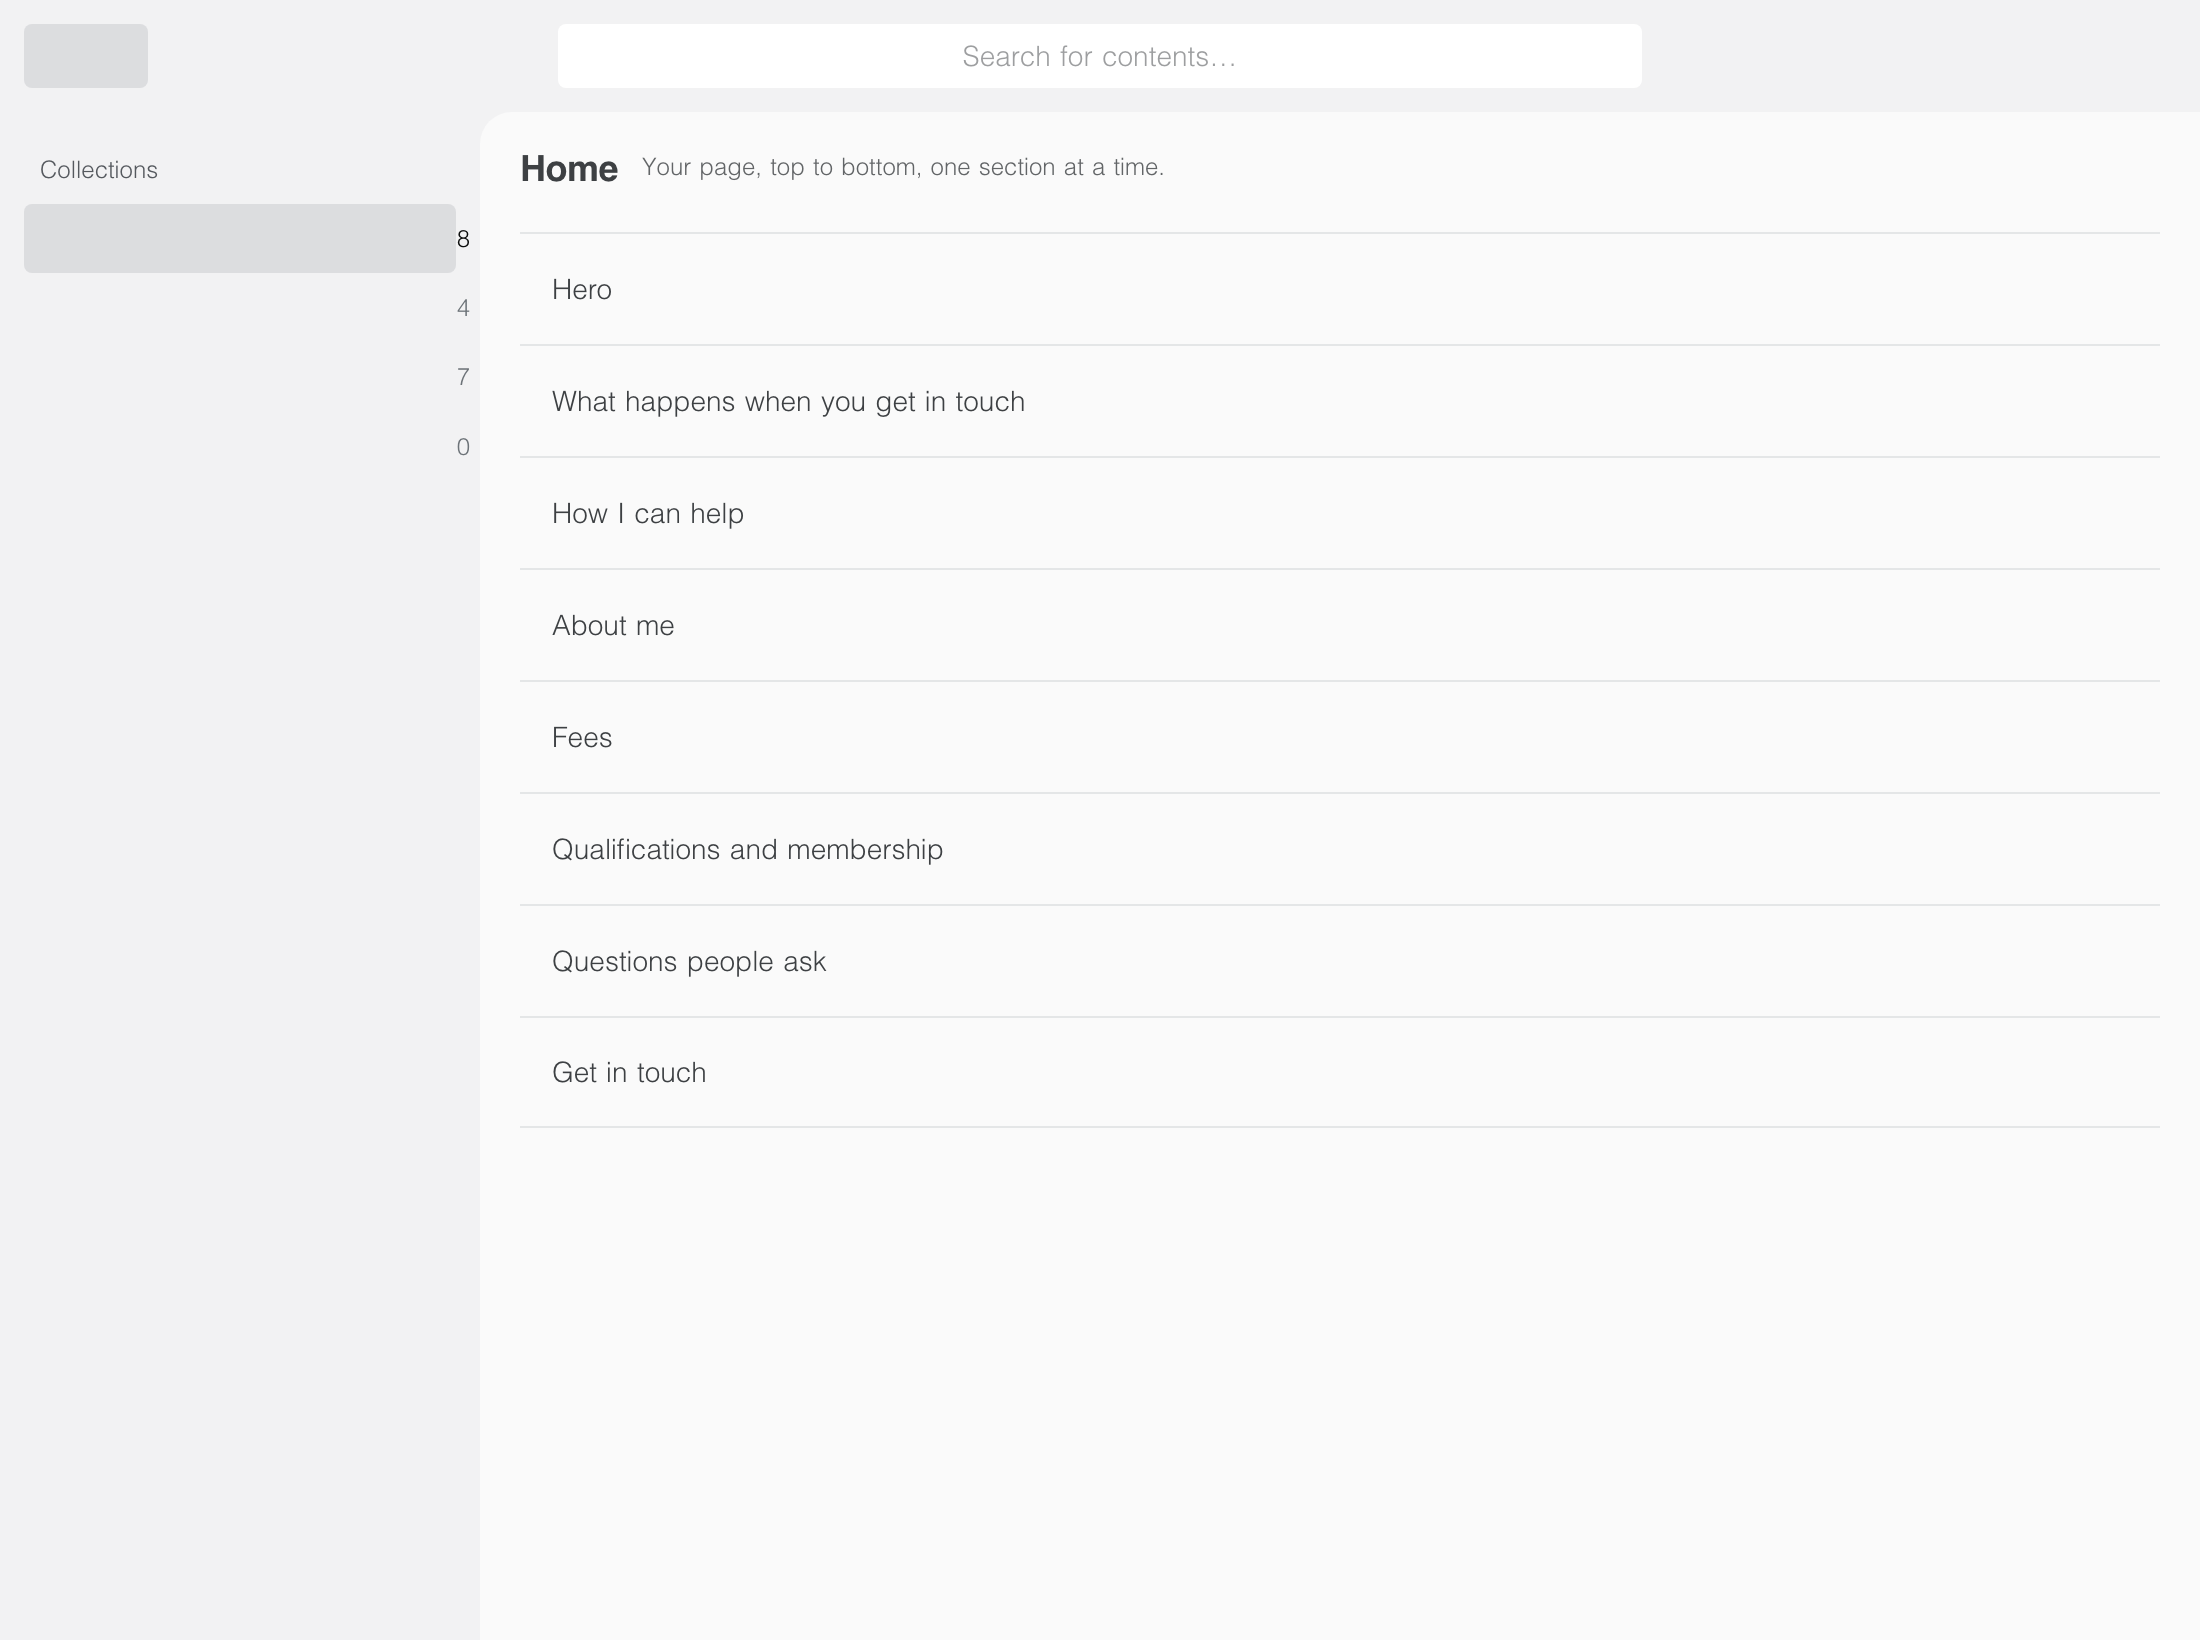
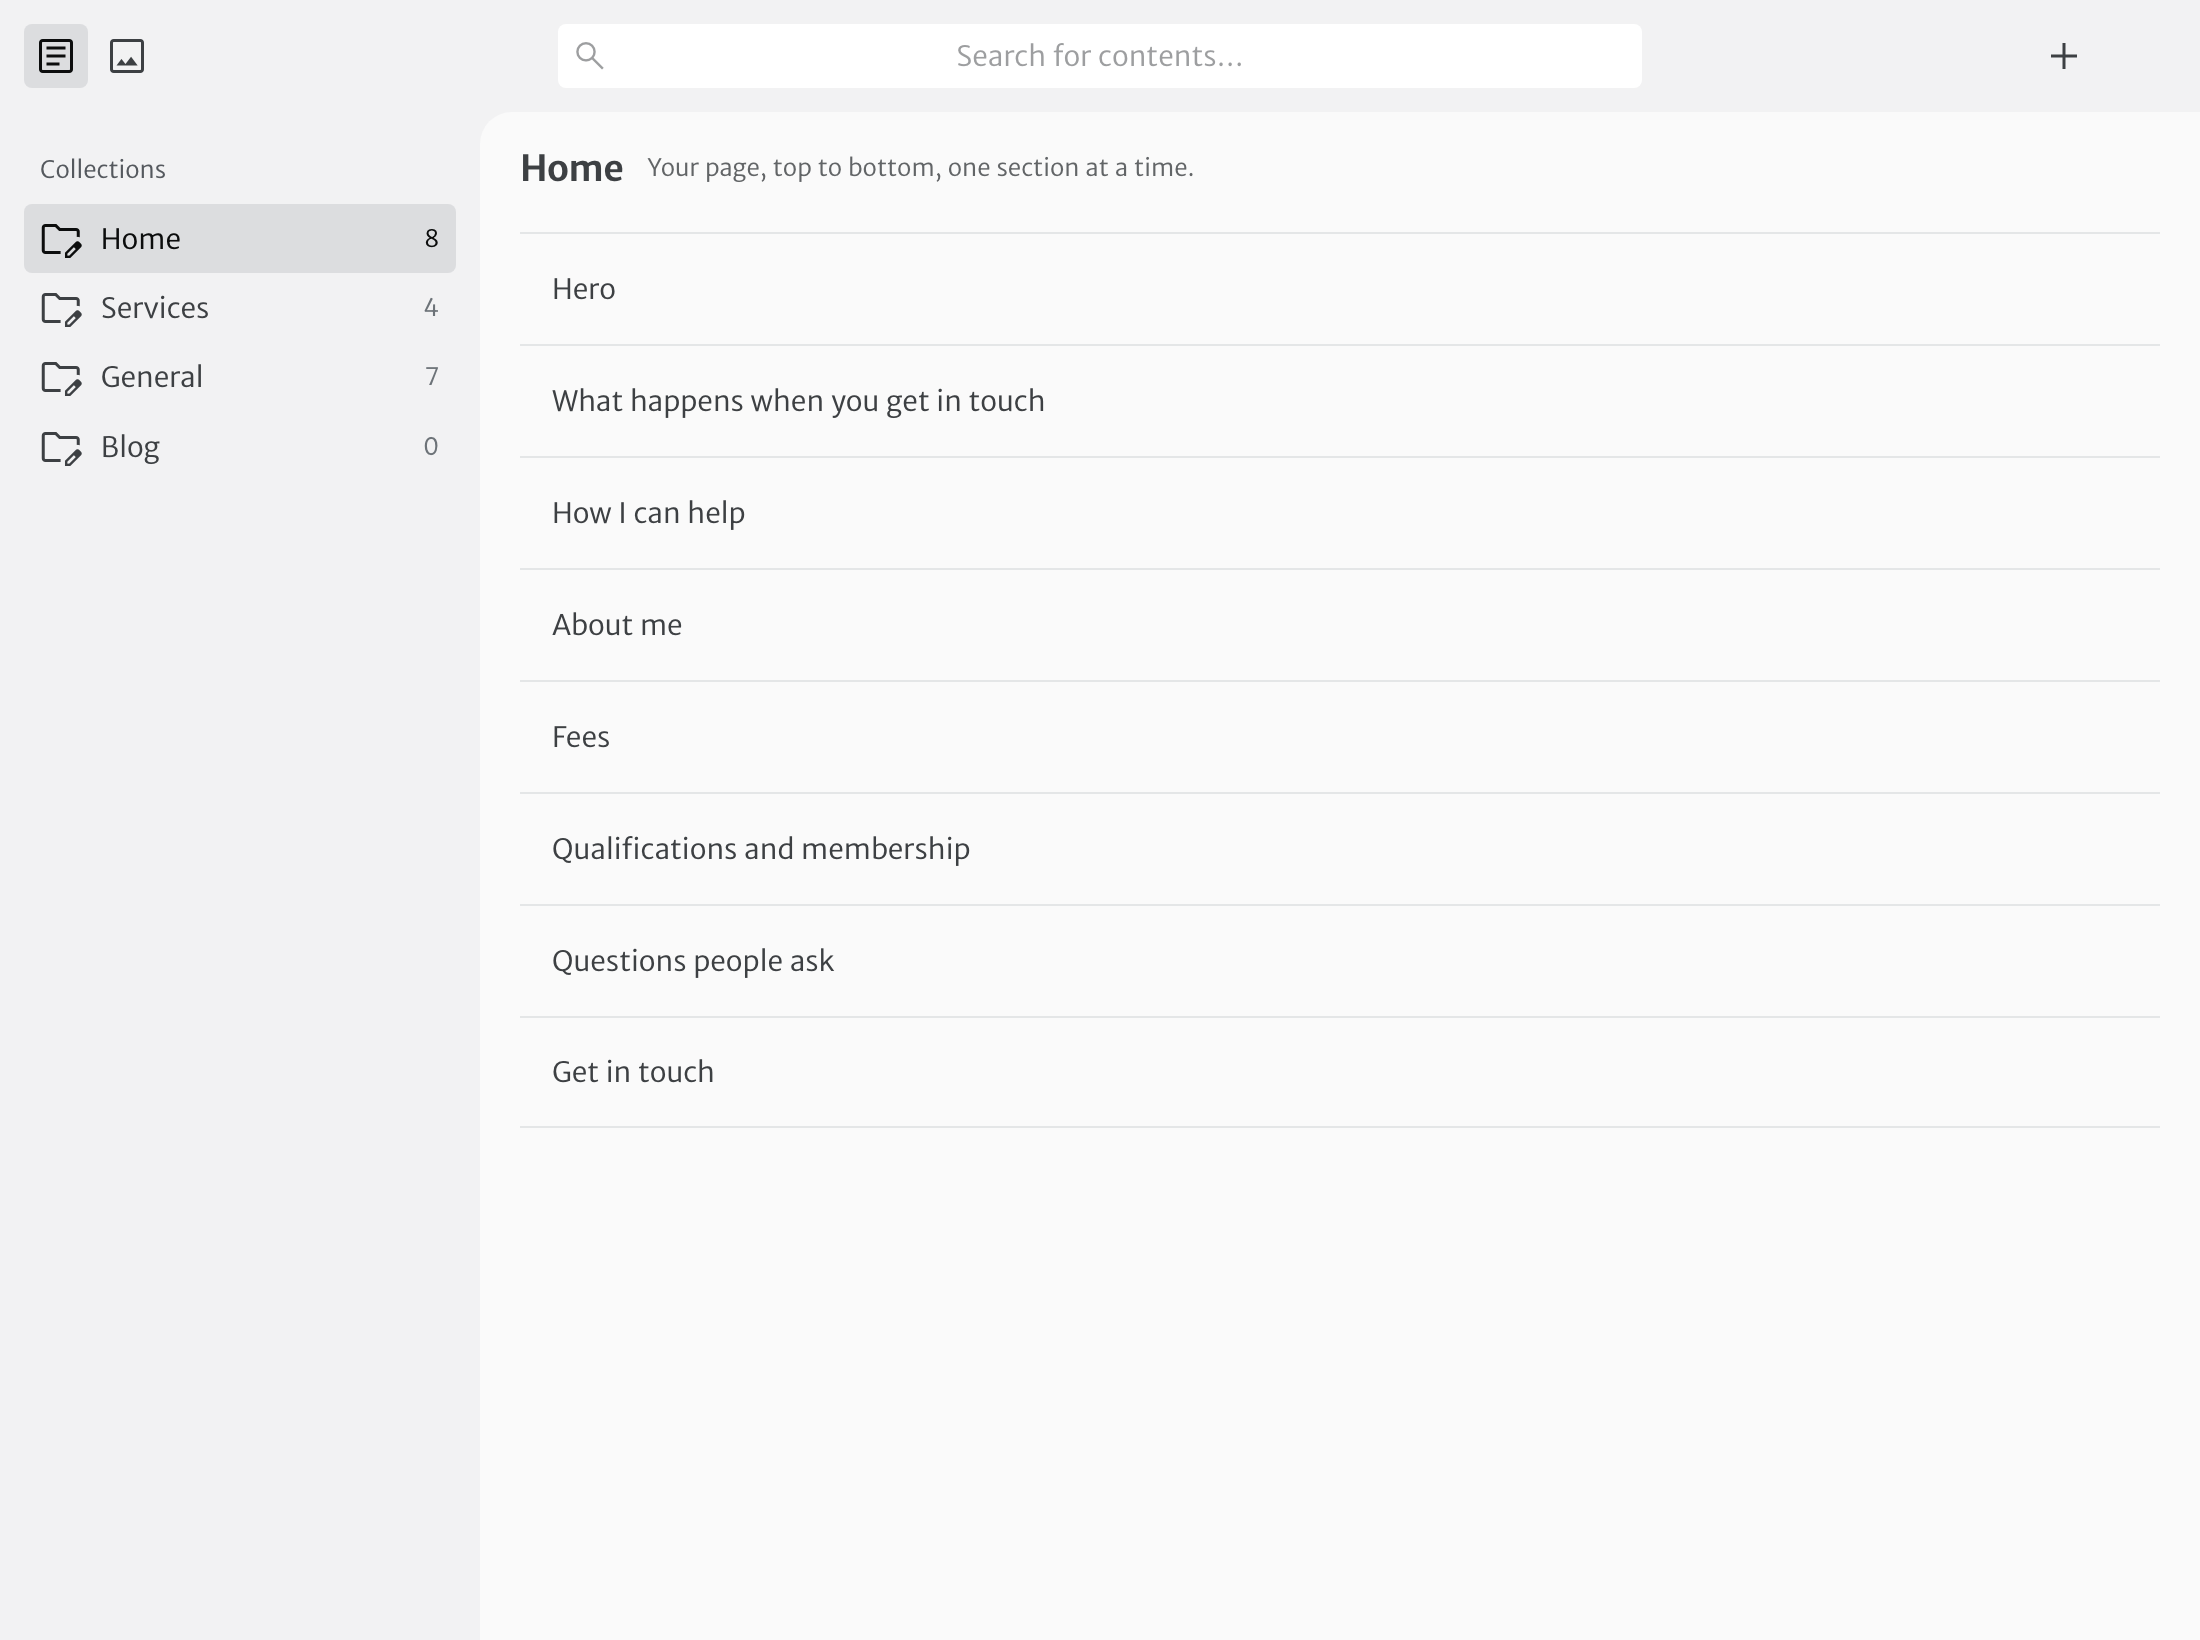
Undoing, All Assets, and the phone — the four things Ole asked the manual to say
ALL ASSETS is in, and the screenshot argues the case better than the paragraph
does: three photographs of John side by side, named john-about.webp,
john-cutout.webp and john-goss.webp, with nothing on screen saying which is his
upload, which is what the build made from it, and which is the one further down
the page — and a Delete button on the same bar. So the chapter says use it to
look and use the forms to change, where the picture sits in the field it
belongs to and replacing it replaces exactly that one.

UNDOING is now its own chapter, organised around the only thing that decides
which kind he wants: whether he has pressed Save. Before it, every field's ⋮
has Revert Changes and the form's has Revert All Changes, and nothing has left
his browser. After it, the history panel has every saved version with who and
when. Save is the line, and the chapter says so under that heading.

The example is real rather than described. capture-editor.mjs types into the
Heading field and opens that field's menu before the shutter, so the picture
shows the edit, the Save button gone live, and Revert Changes sitting open. It
never clicks Save. My first attempt at it typed into the row above and produced
a coherent-looking screenshot of nonsense — "How I can help you" in the box
labelled "Small label above the heading" — which is the worst kind to put in a
manual, so the targeting now finds the field by its value and walks up to the
ancestor holding its own menu.
[…]

diff --git a/docs/manual/manual.md b/docs/manual/manual.md
@@ -111,7 +111,57 @@ sentence, and you can come back to it.
 
 ---
 
-## 5. Pictures
+## 5. Undoing something
+
+Nothing you do here is destructive. There are three ways back, and which one you want depends on
+one thing only: **whether you have pressed Save yet.**
+
+### Before you save
+
+Every box has a **⋮** beside it. Open it and choose **Revert Changes** and that box goes back to
+what it was, leaving everything else alone.
+
+![An edit, and the way back out of it](images/07-undo.png)
+
+The **⋮** at the top of the form has **Revert All Changes**, which does the same for the whole
+section at once.
+
+Nothing has left your browser at this point. The website has not changed and nobody has seen
+anything.
+
+### Save is the line
+
+Until you press Save, your website is exactly as it was. After you press Save, the change is
+recorded and the site rebuilds.
+
+That is the whole difference between the two kinds of undo. **Revert** is for a change you have not
+saved. **History** is for one you have.
+
+### After you save
+
+The clock icon on the right of a section shows every saved version of it, who saved it and when.
+
+![The history of one section](images/08-history.png)
+
+Nothing is ever thrown away, so a change you regret an hour later, or a month later, is still
+there to go back to. If you want a version restored, tell me which one and when — that is a
+two-minute job and there is no way to lose the wrong thing doing it.
+
+### If you close the editor mid-edit
+
+Unsaved changes are kept in your own browser, not on the website. Next time you open that section
+the editor will notice them and ask whether you want to **restore** them or **discard** them.
+
+- **Restore** puts your half-finished edit back so you can carry on.
+- **Discard** throws it away and gives you the section as it is published.
+
+Neither answer can hurt anything: the published site was never touched either way. And if you
+answer on a different computer, or a different browser, there will be nothing to ask about — those
+unsaved changes live only where you made them.
+
+---
+
+## 6. Pictures
 
 Anywhere the editor asks for a picture, it is optional and it works the same way: click, choose a
 file from your computer or phone, save.
@@ -130,9 +180,29 @@ picture that is already cut out, with no background at all, the site uses it as 
 and it is a few words, not a sentence: "John in his consulting room". If the picture is only
 decoration and says nothing the words do not, leave it empty.
 
+### All Assets, and why to leave it alone
+
+The picture icon at the very top left opens **All Assets** — every file on your site in one list.
+
+![All Assets: every picture at once, with nothing saying where any of them is used](images/06-all-assets.png)
+
+It is worth knowing it exists, and it is the wrong place to work.
+
+Look at that list. Three of those are photographs of you, with names that mean nothing:
+`john-about.webp`, `john-cutout.webp`, `john-goss.webp`. One is the picture you uploaded, one is
+what the site made from it for the top of the page, and one is the photograph further down. Nothing
+on the screen tells you which is which, and there is a **Delete** button on the same bar.
+
+**So change pictures through the forms instead.** Open **Home → Hero** and you can see the
+photograph sitting in the field it belongs to, with its own label, and replacing it there replaces
+exactly that one. The picture is shown next to the words it goes with, which is the thing All
+Assets cannot do.
+
+Use All Assets to look. Use the forms to change.
+
 ---
 
-## 6. Writing a post
+## 7. Writing a post
 
 **Blog → New Post.** The form asks, in this order:
 
@@ -142,7 +212,7 @@ decoration and says nothing the words do not, leave it empty.
 - **Publish on** — a date in the future means the post appears by itself at that moment. You do
   not have to be there.
 - **Summary** — two or three lines. This is what shows in the list of posts.
-- **Picture** and **Picture description** — both optional. See chapter 5.
+- **Picture** and **Picture description** — both optional. See chapter 6.
 - **Body** — write it. Use **Heading 2** to break a long post into parts, and **Heading 3**
   underneath those.
 - **Search engine summary** — leave it alone. Empty, it uses the post's own title and summary,
@@ -150,10 +220,7 @@ decoration and says nothing the words do not, leave it empty.
 
 ---
 
-## 7. Things worth knowing
-
-**Nothing you do is destructive.** The site remembers every version. A wrong edit is undone, not
-mourned.
+## 8. Things worth knowing
 
 **Your number and your email are written down once.** They live in **General → Contact details**,
 and every Call button, every email link and the WhatsApp link are built from them. Change the
@@ -170,7 +237,28 @@ empty and it uses the heading.
 
 ---
 
-## 8. If something looks wrong
+## 9. Editing from your phone
+
+The editor works on a phone, and there is a shortcut so you do not have to type a password into a
+small keyboard.
+
+On the computer, click your picture in the top right and choose **Sign In with Mobile**. A square
+black-and-white code appears. Point your phone's camera at it and the phone opens the editor
+already signed in.
+
+![The account menu: signing in on a phone, and signing out](images/09-account-menu.png)
+
+That code is a key to your website for as long as it is on screen. Do not photograph it, do not
+send it to anyone, and close it once your phone has read it. If someone else is in the room, it can
+wait.
+
+**Sign out when you have finished, every time — on the phone especially.** Same menu, **Sign Out**
+at the bottom. A phone gets lent, left on a table, and looked at over a shoulder far more than a
+computer does, and a signed-in editor is the keys to your website. Signing back in is three taps.
+
+---
+
+## 10. If something looks wrong
 
 Give it five minutes — a save takes a couple of minutes to reach the live site, and browsers hold
 on to old pages.
@@ -182,9 +270,8 @@ the editor is unrecoverable, so there is no hurry and nothing to be careful abou
 
 ## Still to come
 
-This is a preliminary edition, written before the site went live. Two things will be added once
-they are settled:
+This is a preliminary edition, written before the site went live. Two things will be filled in
+once they are settled:
 
 - **The live address**, and whether saving publishes straight to it or whether there is a step in
   between.
-- **Screen captures** of each part of the editor.

diff --git a/docs/manual/HANDOVER.md b/docs/manual/HANDOVER.md
@@ -52,7 +52,8 @@ footers and named styles come along without being re-specified.
 `manual.md` was written to survive this conversion without editing:
 
 - **One H1**, the document title.
-- **An H2 per chapter**, numbered 1–8, plus an unnumbered opener and closer.
+- **An H2 per chapter**, numbered 1–10, plus an unnumbered opener and closer.
+- **H3s inside chapters 5 and 6 only**, where a chapter has genuine subsections. Nowhere else.
 - **No H3s and no nested lists** — one level only, so it maps onto a template's named styles
   without inventing any.
 - **Short paragraphs**, no long runs.
@@ -78,15 +79,17 @@ Chrome keeps its session in a profile directory, so `capture.sh login` opens a r
 in once and every headless run afterwards is signed in. Sveltia routes by URL hash, so each screen
 has an address and nothing needs clicking. The profile lives outside the repo; it holds a token.
 
-| # | What | Where |
-| --- | --- | --- |
-| 02 | The collection list — Home / Services / General / Blog in the sidebar, Home's eight sections listed | `/admin/` after signing in |
-| 03 | An entry open for editing — "Home > How I can help" is a good one: it shows a field, its hint, and the Save button top right | click any Home entry |
-| 04 | The Save button, close up, after a change has made it active | same screen |
-| 05 | A picture field with its chooser | Home → Hero, "Your photograph" |
+All nine are taken and placed. `capture.sh public` does the sign-in screen; `capture.sh login`
+signs a throwaway Chrome profile in once, by hand; `capture-editor.mjs` does the rest by driving
+Chrome over the DevTools protocol, including the two that need something DONE to the page first —
+the undo shot types into a field and opens its menu, the history shot opens the history panel.
 
-They come out at **1100px wide, 2× scale**, matching 01. Chapter 2 is where 01 already sits;
-02–03 belong in chapter 3, 04 in chapter 4, 05 in chapter 5.
+**The sign-in QR code is deliberately not among them.** It encodes a live session for whoever
+scans it, so a screenshot of one committed here would be a published credential. Chapter 9
+describes that step in words. Do not add a picture of it.
+
+They are all **1100px wide at 2× scale**, and each is already placed in the markdown at the point
+it belongs.
 
 The `editor` mode refuses a signed-OUT capture rather than writing it, because that failure looks
 like a success: a real png, of a sign-in screen, in the slot where the collection list should be.
